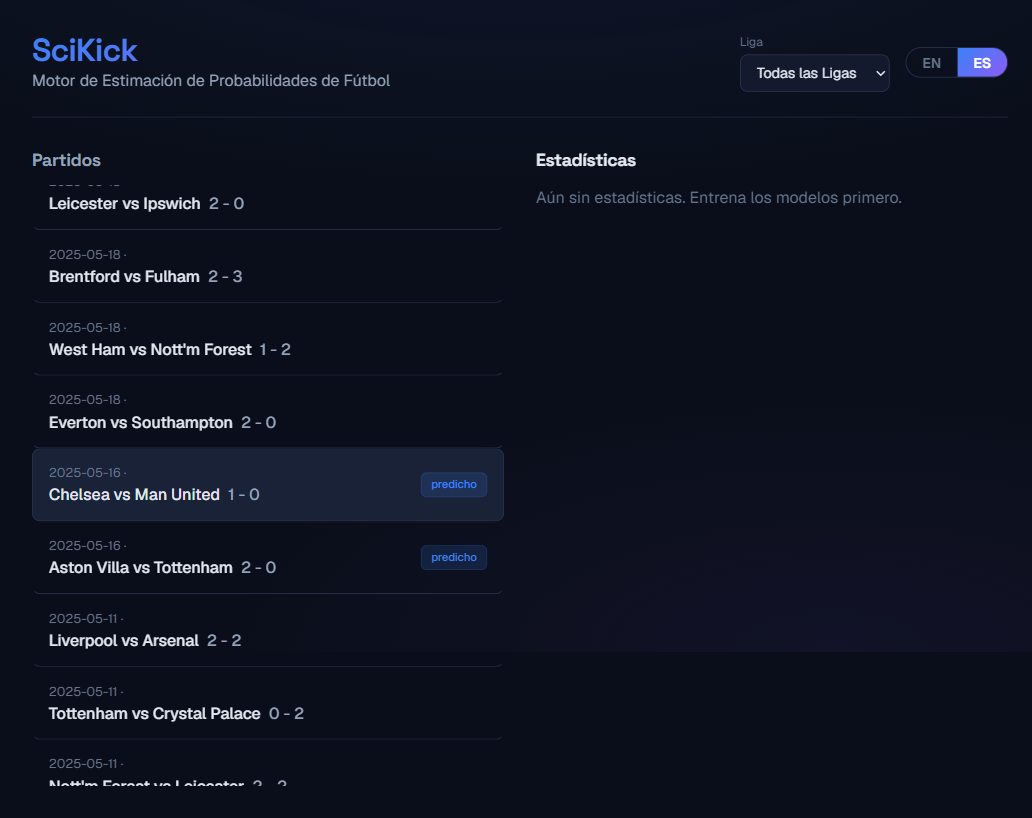
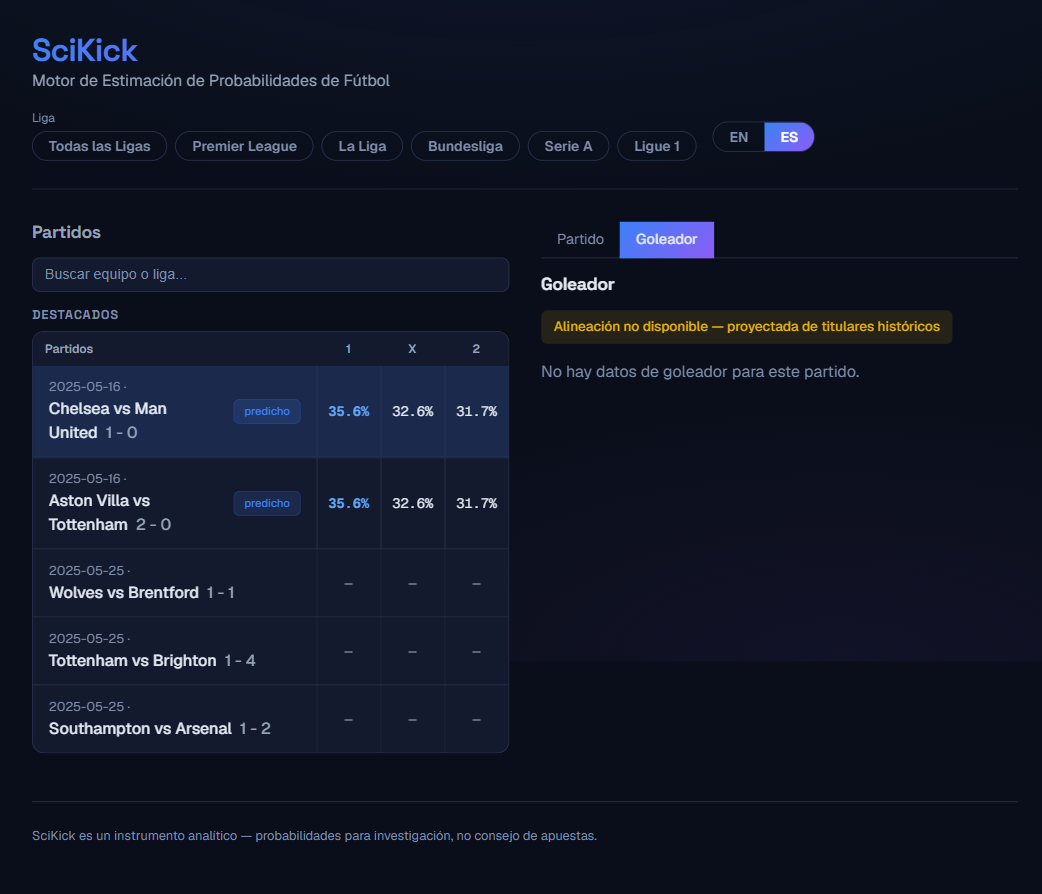
feat(mobile): skeletons, a11y fixes and refreshed screenshots (#13)
* feat(mobile): dark skeletons, touch targets, disclaimer footer and a11y fixes

* docs: refresh screenshots with bookmaker grid and match center UI

diff --git a/frontend/src/App.tsx b/frontend/src/App.tsx
@@ -241,9 +241,9 @@ function App() {
   const renderGridHeader = () => (
     <div role="row" className="fixtures-header">
       <span>{t('fixtures')}</span>
-      <span><abbr title={t('home')}>1</abbr></span>
-      <span><abbr title={t('draw')}>X</abbr></span>
-      <span><abbr title={t('away')}>2</abbr></span>
+      <span><span role="img" aria-label={t('home')}>1</span></span>
+      <span><span role="img" aria-label={t('draw')}>X</span></span>
+      <span><span role="img" aria-label={t('away')}>2</span></span>
     </div>
   )
 
@@ -306,13 +306,12 @@ function App() {
             <span id="league-tabs-label" style={{ fontSize: '0.75rem', color: 'var(--text-muted)' }}>
               {t('league')}
             </span>
-            <div role="tablist" aria-labelledby="league-tabs-label" className="league-tabs">
+            <div role="group" aria-labelledby="league-tabs-label" className="league-tabs">
               {LEAGUES.map(l => (
                 <button
                   key={l.code}
                   type="button"
-                  role="tab"
-                  aria-selected={league === l.code}
+                  aria-pressed={league === l.code}
                   onClick={() => handleLeagueChange(l.code)}
                   className="league-tab"
                 >
@@ -343,7 +342,7 @@ function App() {
       )}
 
       {!error && (
-        <div className="app-grid">
+        <main className="app-grid">
           <div>
             <h2 style={{ color: 'var(--text-secondary)', marginBottom: '1rem', fontSize: '1.1rem' }}>{t('fixtures')}</h2>
             <div style={{ display: 'flex', gap: '0.5rem', marginBottom: '1rem' }}>
@@ -362,7 +361,11 @@ function App() {
               )}
             </div>
             {loading ? (
-              <p style={{ color: 'var(--text-muted)' }}>{t('loading')}</p>
+              <div role="status" aria-label={t('loading')}>
+                {[0, 1, 2, 3, 4].map(i => (
+                  <div key={i} className="skeleton skeleton-row" />
+                ))}
+              </div>
             ) : visibleFixtures.length === 0 ? (
               <p style={{ color: 'var(--text-muted)' }}>
                 {searchQuery.trim() ? t('noSearchResults') : t('noFixtures')}
@@ -395,10 +398,9 @@ function App() {
           <div>
             {selectedFixture && prediction ? (
               <div className="animate-fade-in">
-                <div role="tablist" style={{ display: 'flex', gap: '0', borderBottom: '1px solid var(--border)', marginBottom: '1rem' }}>
+                <div role="group" aria-label={t('prediction')} style={{ display: 'flex', gap: '0', borderBottom: '1px solid var(--border)', marginBottom: '1rem' }}>
                   <button
-                    role="tab"
-                    aria-selected={activeTab === 'match'}
+                    aria-pressed={activeTab === 'match'}
                     className={activeTab === 'match' ? 'tab-active' : ''}
                     style={{
                       padding: '0.5rem 1rem',
@@ -416,8 +418,7 @@ function App() {
                     {t('match')}
                   </button>
                   <button
-                    role="tab"
-                    aria-selected={activeTab === 'scorer'}
+                    aria-pressed={activeTab === 'scorer'}
                     className={activeTab === 'scorer' ? 'tab-active' : ''}
                     style={{
                       padding: '0.5rem 1rem',
@@ -464,8 +465,11 @@ function App() {
               <p style={{ color: 'var(--text-muted)' }}>{t('selectFixture')}</p>
             )}
           </div>
-        </div>
+        </main>
       )}
+      <footer className="app-footer">
+        <span>{t('disclaimer')}</span>
+      </footer>
     </div>
   )
 }

diff --git a/frontend/src/index.css b/frontend/src/index.css
@@ -13,7 +13,8 @@
   --border: #2a3350;
   --text: #e2e8f0;
   --text-secondary: #94a3b8;
-  --text-muted: #64748b;
+  /* Lightened from #64748b to pass WCAG AA 4.5:1 on --bg/--surface */
+  --text-muted: #7e8daa;
 
   --danger: #ef4444;
   --danger-bg: rgba(239, 68, 68, 0.12);
@@ -318,7 +319,7 @@ select {
 }
 
 .select-dark:hover { border-color: var(--text-muted); }
-.select-dark:focus { border-color: var(--accent); outline: none; }
+.select-dark:focus-visible { border-color: var(--accent); }
 
 /* ── Pill toggle ──────────────────────────────────────── */
 .pill {
@@ -361,7 +362,7 @@ select {
 }
 
 .search-input:hover { border-color: var(--text-muted); }
-.search-input:focus { border-color: var(--accent); outline: none; }
+.search-input:focus-visible { border-color: var(--accent); }
 .search-input::placeholder { color: var(--text-muted); }
 
 .league-tabs {
@@ -501,6 +502,11 @@ select {
 
   .odds-cell {
     font-size: 0.75rem;
+    min-height: 44px;
+  }
+
+  .league-tab {
+    padding: 8px 18px;
   }
 }
 
@@ -748,6 +754,53 @@ select {
 
 .spotlight-card:hover::before {
   opacity: 1;
+}
+
+/* ── Skeletons ──────────────────────────────────────── */
+@keyframes shimmer {
+  from { background-position: -200px 0; }
+  to { background-position: 200px 0; }
+}
+
+.skeleton {
+  border-radius: 8px;
+  background: linear-gradient(90deg, var(--surface) 25%, var(--surface-hover) 50%, var(--surface) 75%);
+  background-size: 400px 100%;
+  animation: shimmer 1.2s ease-in-out infinite;
+}
+
+.skeleton-row {
+  height: 64px;
+  margin-bottom: 0.5rem;
+}
+
+/* ── Footer ─────────────────────────────────────────── */
+.app-footer {
+  margin-top: 3rem;
+  padding-top: 1.5rem;
+  padding-bottom: 1rem;
+  border-top: 1px solid var(--border);
+  color: var(--text-muted);
+  font-size: 0.8rem;
+}
+
+@media (pointer: coarse) {
+  .pill-btn,
+  .league-tab,
+  .market-option,
+  .market-group-header,
+  .th-sortable {
+    min-height: 44px;
+    min-width: 44px;
+  }
+}
+
+@media (forced-colors: active) {
+  .gradient-text,
+  .stat-card-value {
+    background: none;
+    -webkit-text-fill-color: CanvasText;
+  }
 }
 
 /* ── Reduced motion ───────────────────────────────────── */

diff --git a/frontend/src/components/StatsDashboard.tsx b/frontend/src/components/StatsDashboard.tsx
@@ -124,13 +124,13 @@ export default function StatsDashboard({ stats, matchdayData, calibrationData, s
 
       {stats.by_market.length > 0 && (
         <Section title={t('byMarket')}>
-          <div className="card-flat" style={{ overflowX: 'auto', padding: '0.5rem' }}>
+          <div className="card-flat" tabIndex={0} role="region" aria-label={t('byMarket')} style={{ overflowX: 'auto', padding: '0.5rem' }}>
             <table className="table-dark">
               <thead>
                 <tr>
-                  <th>{t('market')}</th>
-                  <th style={{ textAlign: 'right' }}>{t('total')}</th>
-                  <th style={{ textAlign: 'right' }}>{t('accuracy')}</th>
+                  <th scope="col">{t('market')}</th>
+                  <th scope="col" style={{ textAlign: 'right' }}>{t('total')}</th>
+                  <th scope="col" style={{ textAlign: 'right' }}>{t('accuracy')}</th>
                 </tr>
               </thead>
               <tbody>
@@ -152,13 +152,13 @@ export default function StatsDashboard({ stats, matchdayData, calibrationData, s
 
       {stats.by_league.length > 1 && (
         <Section title={t('byLeague')}>
-          <div className="card-flat" style={{ overflowX: 'auto', padding: '0.5rem' }}>
+          <div className="card-flat" tabIndex={0} role="region" aria-label={t('byLeague')} style={{ overflowX: 'auto', padding: '0.5rem' }}>
             <table className="table-dark">
               <thead>
                 <tr>
-                  <th>{t('league')}</th>
-                  <th style={{ textAlign: 'right' }}>{t('total')}</th>
-                  <th style={{ textAlign: 'right' }}>{t('accuracy')}</th>
+                  <th scope="col">{t('league')}</th>
+                  <th scope="col" style={{ textAlign: 'right' }}>{t('total')}</th>
+                  <th scope="col" style={{ textAlign: 'right' }}>{t('accuracy')}</th>
                 </tr>
               </thead>
               <tbody>

diff --git a/frontend/src/components/ScorerPanel.tsx b/frontend/src/components/ScorerPanel.tsx
@@ -134,7 +134,7 @@ export default function ScorerPanel({ scorer }: ScorerPanelProps) {
           {rows.length === 0 ? (
             <p style={{ color: 'var(--text-muted)' }}>{t('noScorerMatch')}</p>
           ) : (
-            <div className="card-flat" style={{ overflowX: 'auto', padding: '0.5rem' }}>
+            <div className="card-flat" tabIndex={0} role="region" aria-label={t('goalscorer')} style={{ overflowX: 'auto', padding: '0.5rem' }}>
               <table className="table-dark">
                 <thead>
                   <tr>
@@ -155,7 +155,7 @@ export default function ScorerPanel({ scorer }: ScorerPanelProps) {
                     ))}
                   </tr>
                 </thead>
-                <tbody>
+                <tbody id="scorer-tbody">
                   {visible.map(s => <ScorerRow key={s.player_id} s={s} />)}
                 </tbody>
               </table>
@@ -165,7 +165,7 @@ export default function ScorerPanel({ scorer }: ScorerPanelProps) {
             {t('showingOf').replace('{shown}', String(visible.length)).replace('{total}', String(rows.length))}
           </p>
           {rows.length > VISIBLE_COUNT && (
-            <button type="button" onClick={() => setExpanded(!expanded)} className="league-tab expander-btn">
+            <button type="button" onClick={() => setExpanded(!expanded)} aria-expanded={expanded} aria-controls="scorer-tbody" className="league-tab expander-btn">
               {expanded ? t('showLess') : `${t('showAll')} (${rows.length})`}
             </button>
           )}

diff --git a/frontend/src/components/LanguageSelector.tsx b/frontend/src/components/LanguageSelector.tsx
@@ -1,23 +1,23 @@
 import { useLanguage, type Locale } from '../i18n'
 import type { ComponentProps } from 'react'
 
-const OPTIONS: { value: Locale; label: string }[] = [
-  { value: 'en', label: 'EN' },
-  { value: 'es', label: 'ES' },
+const OPTIONS: { value: Locale; label: string; name: string }[] = [
+  { value: 'en', label: 'EN', name: 'English' },
+  { value: 'es', label: 'ES', name: 'Español' },
 ]
 
 type ButtonProps = ComponentProps<'button'>
 
 export function LanguageSelector() {
-  const { locale, setLocale } = useLanguage()
+  const { locale, setLocale, t } = useLanguage()
 
   return (
     <div
       role="group"
-      aria-label="Language"
+      aria-label={t('language')}
       className="pill"
     >
-      {OPTIONS.map(({ value, label }) => {
+      {OPTIONS.map(({ value, label, name }) => {
         const isActive = value === locale
         const common: ButtonProps = {
           onClick: () => setLocale(value),
@@ -25,7 +25,7 @@ export function LanguageSelector() {
           className: `pill-btn ${isActive ? 'pill-btn-active' : ''}`,
         }
         return (
-          <button key={value} {...common}>
+          <button key={value} lang={value} aria-label={name} {...common}>
             {label}
           </button>
         )

diff --git a/frontend/src/i18n/index.tsx b/frontend/src/i18n/index.tsx
@@ -109,6 +109,8 @@ const DICTIONARIES = {
     trustCalibration: '{good} of {total} ranges within 10 pts of perfect calibration.',
     trustCalibrationPending: 'Calibration still pending — check back after 30 resolved predictions.',
     trustSample: 'Based on {n} resolved predictions (calibration n={m}).',
+    disclaimer: 'SciKick is an analytical instrument — probabilities for research, not betting advice.',
+    language: 'Language',
   },
   es: {
     tagline: 'Motor de Estimación de Probabilidades de Fútbol',
@@ -214,6 +216,8 @@ const DICTIONARIES = {
     trustCalibration: '{good} de {total} rangos a menos de 10 pts de la calibración perfecta.',
     trustCalibrationPending: 'Calibración pendiente — vuelve tras 30 predicciones resueltas.',
     trustSample: 'Basado en {n} predicciones resueltas (n={m} en calibración).',
+    disclaimer: 'SciKick es un instrumento analítico — probabilidades para investigación, no consejo de apuestas.',
+    language: 'Idioma',
   },
 } as const
 

diff --git a/frontend/src/App.test.tsx b/frontend/src/App.test.tsx
@@ -52,7 +52,7 @@ describe('App', () => {
 
   it('shows loading state', () => {
     renderApp()
-    expect(screen.getByText('Loading...')).toBeDefined()
+    expect(screen.getByRole('status', { name: 'Loading...' })).toBeDefined()
   })
 
   it('renders fixtures after loading', async () => {
@@ -83,7 +83,7 @@ describe('App', () => {
   it('switches league via tabs', async () => {
     renderApp()
     await screen.findAllByText(/Arsenal/)
-    fireEvent.click(screen.getByRole('tab', { name: 'La Liga' }))
+    fireEvent.click(screen.getByRole('button', { name: 'La Liga' }))
     expect(vi.mocked(fetch)).toHaveBeenCalledWith(expect.stringContaining('league=SP1'))
   })
 

diff --git a/frontend/src/components/MarketRenderer.tsx b/frontend/src/components/MarketRenderer.tsx
@@ -12,6 +12,7 @@ function MoveArrow({ move }: { move: MoveDirection }) {
   const up = move === 'up'
   return (
     <span
+      role="img"
       aria-label={up ? t('oddsUp') : t('oddsDown')}
       className={`move-flash ${up ? 'move-up' : 'move-down'}`}
       style={{ fontSize: '0.75rem', marginLeft: '0.375rem' }}
